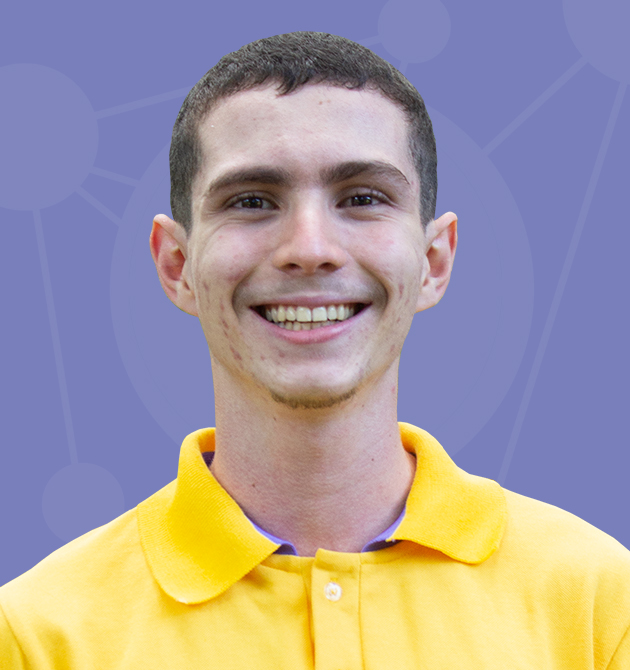
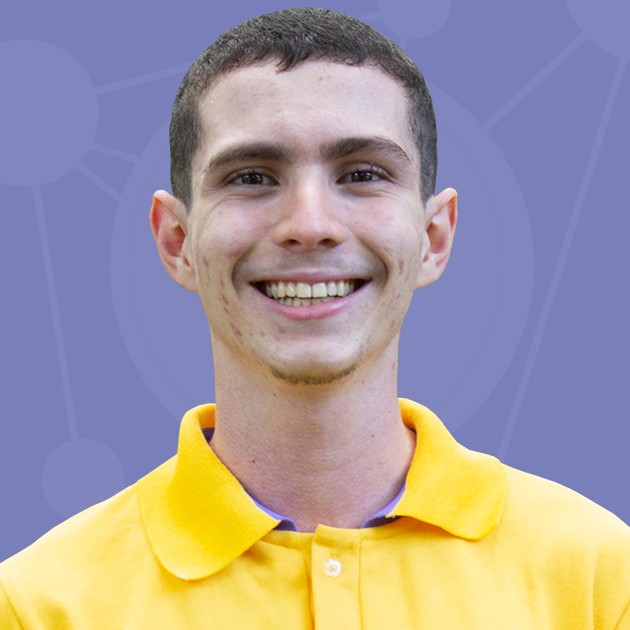
.

Changed region(s): [[0.2111, 0.0, 0.7238, 0.5127], [0.0, 0.6333, 1.0, 1.0], [0.8143, 0.9048, 0.8444, 0.9651]]

diff --git a/styles/style.css b/styles/style.css
@@ -1,38 +1,82 @@
+:root {
+  /* --text-color: hsl(0 0% 5%); */
+  --text-color: hsl(0 0% 95%);
+  /* --background-color: hsl(0 0% 95%) */
+  --background-color: hsl(0 0% 14%)
+}
+
 html {
-  scroll-behavior: smooth;
+  display: flex;
+  align-items: center;
+  min-height: 100vh;
   font: 16px "Anta", sans-serif;
-  background-color: #cfe8fd;
+  /* background: conic-gradient(hsl(345, 90%, 37%), hsl(345, 90%, 25%), hsl(345, 90%, 15%), hsl(345, 90%, 30%), hsl(345, 70%, 50%), hsl(345, 90%, 37%), hsl(345, 90%, 37%)); */
+  background: conic-gradient(hsl(345, 90%, 37%), hsl(345, 90%, 25%), hsl(345, 90%, 15%), hsl(345, 90%, 30%), hsl(345, 70%, 50%), hsl(345, 90%, 37%), hsl(345, 90%, 37%));
 }
 
 body {
-  background-color: #ffffff;
-  min-height: 100vh;
-  max-width: 50rem;
-  padding: 0 1.25rem 1.25rem 1.25rem;
+  display: flex;
+  flex-direction: column;
+  height: 90vh;
+  width: 90vw;
+  border-radius: 1rem;
+  background-color: var(--background-color);
+  /* background-color: hsl(0 0% 14%); */
   margin: 0 auto;
+}
+
+header {
+  display: flex;
+  justify-content: space-between;
+  padding: 1.25rem;
+  margin: 0 2rem 0 2rem;
+}
+
+main {
+  display: flex;
+  flex-grow: 1;
+  align-items: center;
+}
+
+nav {
+  display: flex;
+  align-items: center;
+  > ul {
+    display: flex;
+    margin: 2px 0;
+    & > li {
+      margin: 0 .5rem;
+    }
+  }
+}
+
+section{
+  padding: 1.25rem;
+  margin: 0 2rem;
 }
 
 h1 {
   font: "Iceland", sans-serif;
   & > a {
     text-decoration: none;
-    color: black;
-    &:visited {color: black;}
-    &:focus {color: black;}
+    color: var(--text-color);
+    &:visited {color: var(--text-color);}
+    &:focus {color: var(--text-color);}
     &:hover {text-decoration: none;}
-    &:active {color: black;}
+    &:active {color: var(--text-color);}
   }
 }
 
 h2, h3, h4 {
   font: "Audiowide", sans-serif;
+  color: var(--text-color);
   & > a {
     text-decoration: none;
-    color: black;
-    &:visited {color: black;}
-    &:focus {color: black;}
+    color: var(--text-color);
+    &:visited {color: var(--text-color);}
+    &:focus {color: var(--text-color);}
     &:hover {text-decoration: underline solid 0.125rem;}
-    &:active {color: black;}
+    &:active {color: var(--text-color);}
   }
 }
 
@@ -45,40 +89,38 @@ nav {
       & > a {
         text-decoration: none;
         padding: 0.1rem 0.2rem;
-        color: black;
+        color: var(--text-color);
         border-radius: 0.313rem;
-        &:visited {color: black;}
-        &:focus {color: black;}
-        &:hover {background-color: #83c7ff6d;}
-        &:active {color: black;}
+        &:visited {color: var(--text-color);}
+        &:focus {color: var(--text-color);}
+        &:hover {
+          background-color: hsl(345 90% 50% / 0.8);
+          color: #ffffff;
+          /* border: 0.0625rem solid #000; */
+        }
+        &:active {color: var(--text-color);}
       }
     }
   }
 }
 
 p {
+  color: var(--text-color);
   margin-bottom: 1.25rlh;
 }
 
-figure {
-  display: inline-block;
-  border: 0.0625rem solid black;
+img {
+  float: inline-end;
   width: 12rem;
-  & > img {
-    width: 100%;
-    height: auto;
-  }
-  & > figcaption {
-    font-size: 0.7rem;
-    padding-left: 0.2rem;
-    background-color: rgba(200, 200, 200, 0.3);
-  }
+  height: auto;
+  border-radius: 50%;
+  margin: 0 5rem;
 }
 
 a {
   text-decoration: underline solid 0.0625rem;
   color: #007ed4;
-  &:visited {color: #551a8b;}
+  &:visited {color: #a155e8;}
   &:focus {color: green;}
   &:hover {text-decoration: none;}
   &:active {color: red;}
@@ -93,4 +135,8 @@ a {
     background-repeat: no-repeat;
     vertical-align: middle;
   }
+}
+
+li {
+  color: var(--text-color);
 }

diff --git a/index.html b/index.html
@@ -26,6 +26,9 @@
     <link rel="stylesheet" href="styles/reset.css" />
     <link rel="stylesheet" href="styles/style.css" />
     <link rel="stylesheet" href="styles/index.css" />
+
+    <!-- SCRIPTS -->
+    <script src="scripts/main.js" defer></script>
   </head>
 
   <body>
@@ -43,20 +46,11 @@
 
     <main>
       <section id="sobre">
-        <h2><a href="#sobre">Sobre Mim</a></h2>
-        <figure>
-          <img
-            src="images/Pedro-Ivo.jpg"
-            alt="Homem branco jovem de camisa amarela."
-            width="214.400"
-            height="228.012"
-          />
-          <figcaption>
-            12/12/2020 - evento de final de ano do
-            <a href="https://www.institutoponte.org.br" target="_blank">IP</a>
-            (Instituto Ponte).
-          </figcaption>
-        </figure>
+        <h2>Sobre Mim</h2>
+        <img
+          src="images/Pedro-Ivo.jpg"
+          alt="Homem branco jovem de camisa amarela."
+        />
         <p>
           Olá, meu nome é Pedro Ivo, tenho 22 anos e estou fazendo o 2º semestre
           de
@@ -81,8 +75,8 @@
         </p>
       </section>
 
-      <section id="projetos">
-        <h2><a href="#projetos">Projetos</a></h2>
+      <section id="projetos" hidden>
+        <h2>Projetos</h2>
         <ul>
           <li><a href="#">Projeto 1</a>: Descrição breve do projeto.</li>
           <li><a href="#">Projeto 2</a>: Descrição breve do projeto.</li>
@@ -91,8 +85,8 @@
         </ul>
       </section>
 
-      <section id="plano">
-        <h2><a href="#plano">Plano Profissional</a></h2>
+      <section id="plano" hidden>
+        <h2>Plano Profissional</h2>
         <p>
           Busco um estágio na área da programação, quero trabalhar programando,
           consertar bugs, e aprendendo com meus colegas de trabalho tudo que
@@ -101,7 +95,7 @@
       </section>
     </main>
 
-    <footer>
+    <footer hidden>
       <address id="contatos">
         <p>Contatos:</p>
         <ul>

diff --git a/scripts/main.js b/scripts/main.js
@@ -1,0 +1,21 @@
+const navLinks = document.querySelectorAll('header nav ul li a');
+const sections = document.querySelectorAll('main section, footer');
+navLinks.forEach(link => {
+  link.addEventListener('click', function(e) {
+    e.preventDefault();
+    const targetId = this.getAttribute('href').substring(1);
+    sections.forEach(section => {
+      section.setAttribute('hidden', 'true');
+    });
+    
+    const targetSection = document.getElementById(targetId);
+    if (targetSection) {
+      targetSection.removeAttribute('hidden');
+    }
+    
+    if (targetSection) {
+      targetSection.scrollIntoView({ behavior: 'smooth' });
+    }
+  });
+});
+document.getElementById('sobre').removeAttribute('hidden');

diff --git a/styles/dark style.css b/styles/dark style.css
@@ -1,0 +1,17 @@
+html {
+  display: flex;
+  align-items: center;
+  min-height: 100vh;
+  font: 16px "Anta", sans-serif;
+  background: conic-gradient(hsl(345, 90%, 37%), hsl(345, 90%, 25%), hsl(345, 90%, 15%), hsl(345, 90%, 30%), hsl(345, 70%, 50%), hsl(345, 90%, 37%), hsl(345, 90%, 37%));
+}
+
+body {
+  display: flex;
+  flex-direction: column;
+  height: 90vh;
+  width: 90vw;
+  border-radius: 1rem;
+  background-color: hsl(0 0% 95%);
+  margin: 0 auto;
+}

diff --git a/styles/index.css b/styles/index.css
@@ -1,12 +1,8 @@
-section {
+/* section {
   &#sobre,
   &#projetos,
   &#plano {
     min-height: 100vh;
     margin: 1rem 0;
   }
-}
-
-.nota {
-  margin-bottom: 0;
-}
+} */
